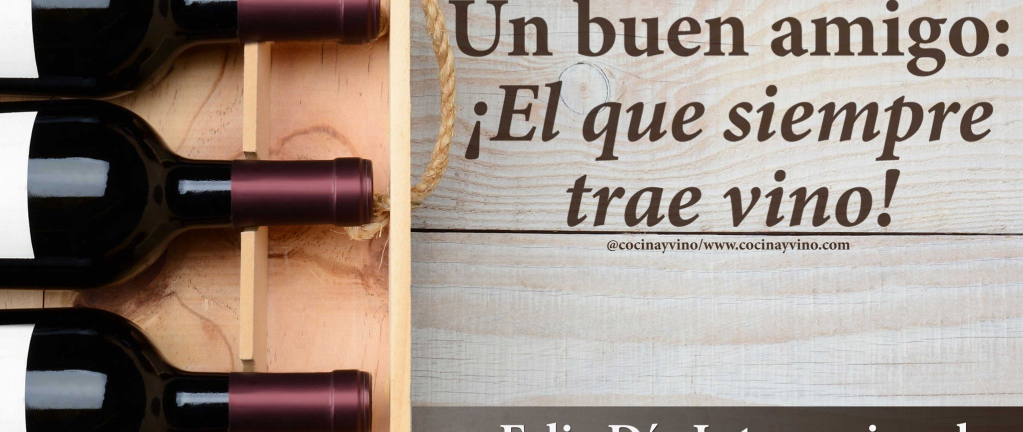
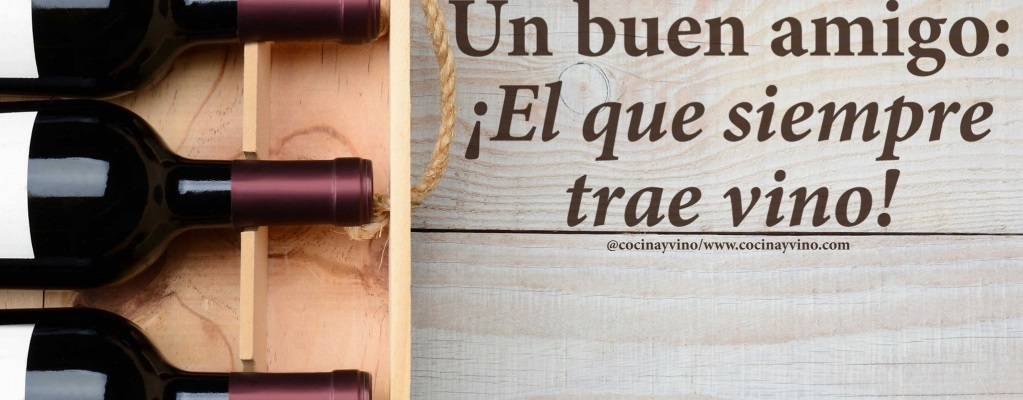
Dinamizando la vista tienda

diff --git a/public/stylesheets/carouselTienda1.css b/public/stylesheets/carouselTienda1.css
@@ -3,7 +3,7 @@
 .carousel-container0 {
     max-width: 1000px;
     position: relative;
-    margin: 20px auto;
+    margin: 0 auto;
 }
 
 /* Esconde las imágenes por defecto */
@@ -14,6 +14,7 @@
 
 .slides0 img {
     width: 100%;
+    height: 60vw;
 }
 
 .dots0 {
@@ -83,4 +84,27 @@
     animation-duration: 1.5s;
     -webkit-animation-name: fade0;
     -webkit-animation-duration: 1.5s;
+}
+
+/*Media Queries*/
+
+@media(min-width: 768px){
+    .slides0 img {
+        width: 100%;
+        height: 40vw;
+    }
+}
+
+@media(min-width: 1024px){
+    .slides0 img {
+        width: 100%;
+        height: 34vw;
+    }
+}
+
+@media(min-width: 1200px){
+    .slides0 img {
+        width: 100%;
+        height: 32vw;
+    }
 }

diff --git a/public/stylesheets/carouselTienda2.css b/public/stylesheets/carouselTienda2.css
@@ -10,6 +10,7 @@
 
 .slides1 {
     display: none;
+    height: 73px;
 } 
 
 .slides1 img {
@@ -26,7 +27,7 @@
     cursor: pointer;
     height: 12px;
     width: 12px;
-    margin: 0 2px;
+    margin: 10px 2px;
     background-color: #bbb;
     border-radius: 50%;
     display: inline-block;

diff --git a/public/stylesheets/tienda.css b/public/stylesheets/tienda.css
@@ -121,6 +121,7 @@ section.products{
     font-size: 18px;
     text-align: center;
     margin-bottom: 8px;
+    height: 40px;
 }
 
 /*descuento y precio*/
